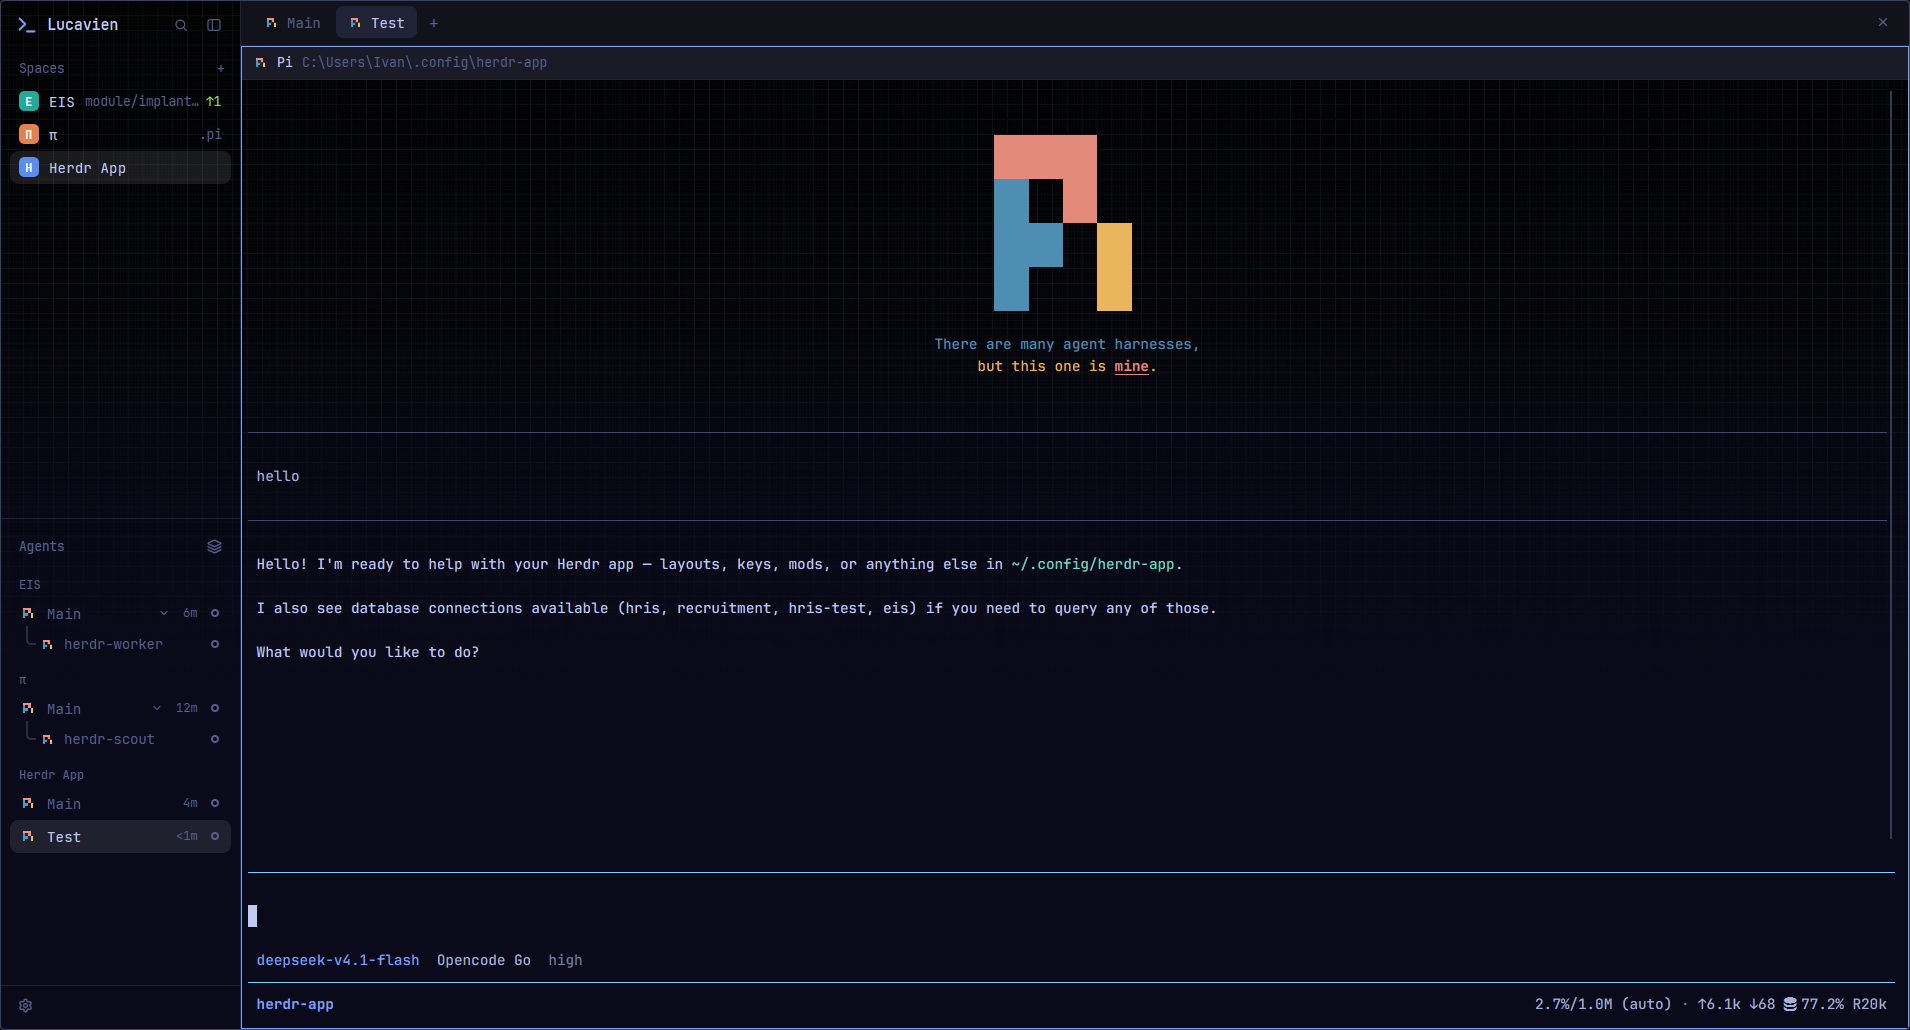
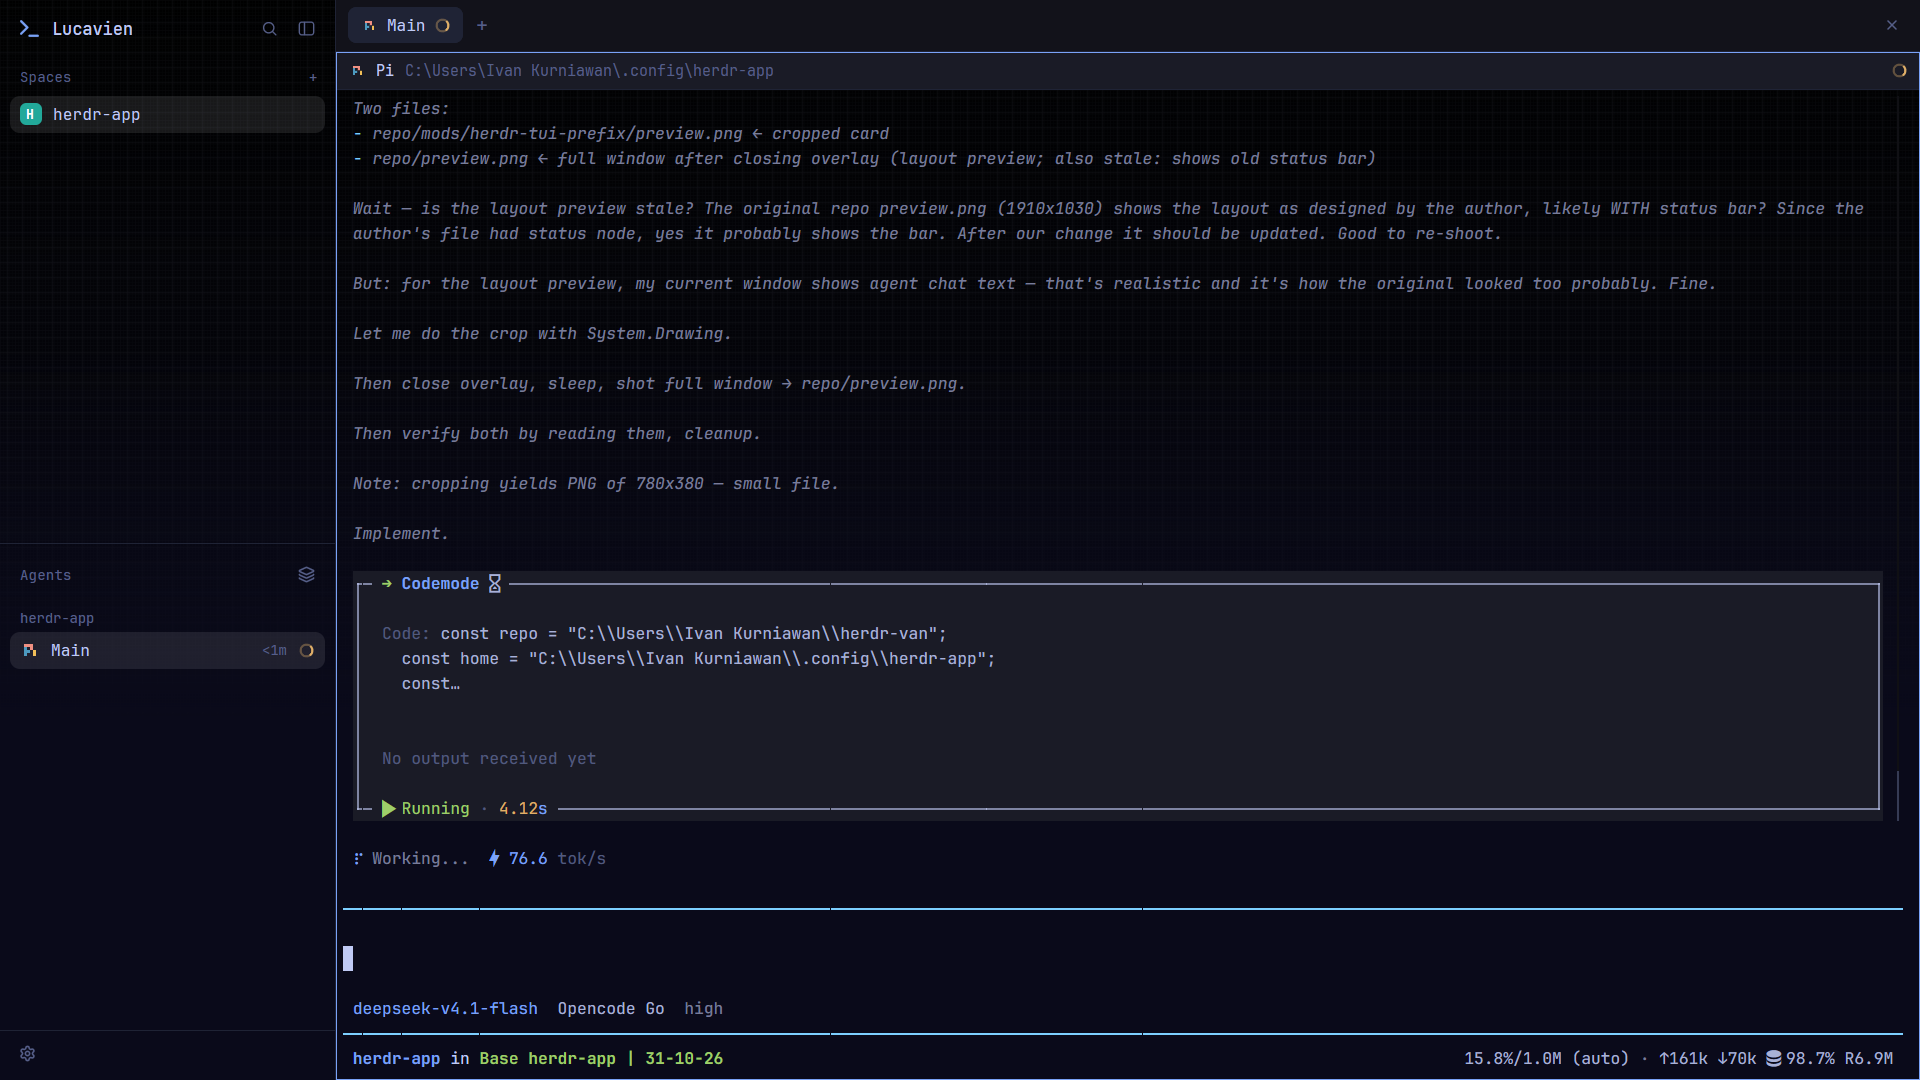
mod(herdr-tui-prefix): drop the picker duplicate and every shift+key row
w was a copy of g; shift+t/x/n/w/d/g/p/r/tab are easy to mistype after a
prefix and the app's own keys cover them. Three sections left (Panes, Tabs,
Session), no Spaces. Previews re-shot: the mod card, and the layout without
its old status bar.

diff --git a/mods/herdr-tui-prefix/main.js b/mods/herdr-tui-prefix/main.js
@@ -1,12 +1,13 @@
-// Herdr TUI prefix: herdr-tui's default prefix (Ctrl+B) and its default
-// bindings, for the Herdr app. Press Ctrl+B, release, press a key: the hint
-// waits for that one key and closes as soon as it has it, with no repeat
-// window holding the keyboard (herdr-tui has none either).
+// Herdr TUI prefix: herdr-tui's default prefix (Ctrl+B) over a trimmed subset
+// of its default bindings. Press Ctrl+B, release, press a key: the hint waits
+// for that one key and closes as soon as it has it, with no repeat window
+// holding the keyboard (herdr-tui has none either).
 //
-// The list mirrors `herdr --default-config`'s [keys] table
-// (herdr.dev/tui/docs/config-reference). A row with a null command is a
-// herdr-tui action the app has no command for: it stays listed, dimmed with
-// the reason, and pressing it says so instead of doing nothing.
+// Deliberately left out: every shift+key row (shift+t/x/n/w/d/g/p/r/tab). Shift
+// after a prefix is easy to mistype, and the app's own keys cover those actions.
+// A row with a null command is a herdr-tui action the app has no command for: it
+// stays listed, dimmed with the reason, and pressing it says so instead of doing
+// nothing.
 
 import { View, div } from "gpui-kit";
 import { v_flex, h_flex } from "gpui-base";
@@ -35,34 +36,19 @@ const SECTIONS = [
     ["r", "Resize mode", null, {}, "drag a split's border"],
     ["[", "Copy mode", null, {}, "mouse-select, then ^⇧C"],
     ["tab", "Cycle pane", null, {}, "use h j k l"],
-    ["shift+tab", "Cycle pane back", null, {}, "use h j k l"],
     ["e", "Edit scrollback", null, {}, "no scrollback editor"],
-    ["shift+p", "Rename pane", null, {}, "panes take their terminal's name"],
   ]],
   ["Tabs", [
     ["c", "New tab", "tab.new"],
     ["n", "Next tab", "tab.next"],
     ["p", "Previous tab", "tab.prev"],
     ...Array.from({ length: 9 }, (_, i) => [String(i + 1), `Tab ${i + 1}`, "tab.select", { index: i + 1 }]),
-    ["shift+t", "Rename tab", "tab.rename"],
-    ["shift+x", "Close tab", "tab.close"],
-  ]],
-  ["Spaces", [
-    ["shift+n", "New space", "space.new"],
-    ["shift+w", "Rename space", "space.rename"],
-    ["shift+d", "Close space", "space.close"],
-    ["shift+g", "New worktree", () => openOverlay({
-      mod: "worktree", kind: "dialog", width: 460, height: 280,
-      props: { space: focused()?.space, folder: focused()?.cwd, action: "new" },
-    })],
-    ["w", "Space picker", openPicker],
-    ["b", "Toggle sidebar", "layout.toggle", { id: "sidebar" }],
   ]],
   ["Session", [
     ["g", "Go to an agent or terminal", openPicker],
+    ["b", "Toggle sidebar", "layout.toggle", { id: "sidebar" }],
     ["s", "Settings", "app.settings"],
     ["q", "Minimize window", "window.minimize", {}, "no detach: panes keep running"],
-    ["shift+r", "Reload config", null, {}, "file edits apply live"],
     ["o", "Notification target", null, {}, "toasts go there when clicked"],
   ]],
 ];
@@ -76,7 +62,7 @@ const SHORT = [
   ["v · -", "Split right / down"],
   ["h j k l", "Focus pane"],
   ["z · x", "Zoom / close pane"],
-  ["w · b", "Space picker / sidebar"],
+  ["b", "Toggle sidebar"],
   ["q", "Minimize window"],
   ["?", "All bindings"],
 ];

diff --git a/mods/herdr-tui-prefix/RECIPE.md b/mods/herdr-tui-prefix/RECIPE.md
@@ -1,24 +1,43 @@
 # Herdr TUI prefix
 
-Ctrl+B, then a key: the Herdr TUI's own default prefix and default bindings, inside the Herdr app. A hint stays open while you decide. This is a piece you add to your current layout, not a window or a terminal multiplexer.
+Ctrl+B, then a key: the Herdr TUI's default prefix, inside the Herdr app, over
+the bindings worth typing. A hint stays open while you decide. This is a piece
+you add to your current layout, not a window or a terminal multiplexer.
 
 ![Herdr TUI prefix](preview.png)
 
-This file is the brief: enough to build Herdr TUI prefix from an empty folder. The files next to it are one build of it. If they don't work on your Herdr, or you want it different, build it again from here.
+This file is the brief: enough to build Herdr TUI prefix from an empty folder.
+The files next to it are one build of it. If they don't work on your Herdr, or
+you want it different, build it again from here.
 
 ## What you see
 
-Two states of one popup near the top of the window, 520px wide and offset 64px from the top. Nothing is added to the layout.
+Two states of one popup near the top of the window, 520px wide and offset 64px
+from the top. Nothing is added to the layout.
 
-The card Ctrl+B opens first: a heading, "Ctrl+B · waiting for a key", with "Esc cancel · ^B send prefix" on the right, then nine 20px rows — key on the left in a 66px column in the theme's accent, action on the right in the foreground. The keys worth knowing by heart: new tab, next/previous tab, select tab, split right/down, focus pane, zoom/close pane, space picker/sidebar, minimize window, all bindings. A footer reads "? all bindings". The popup is only as tall as that card (about 265px).
+The card Ctrl+B opens first: a heading, "Ctrl+B · waiting for a key", with
+"Esc cancel · ^B send prefix" on the right, then nine 20px rows — key on the
+left in a 66px column in the theme's accent, action on the right in the
+foreground. The keys worth knowing by heart: new tab, next/previous tab, select
+tab, split right/down, focus pane, zoom/close pane, toggle sidebar, minimize
+window, all bindings. A footer reads "? all bindings". The popup is only as tall
+as that card (about 265px).
 
-The full list after `?`: the heading becomes "Ctrl+B · all bindings" with "? short list · Esc cancel" on the right, and the card gives way to a 440px scrolling list in four captioned sections — PANES, TABS, SPACES, SESSION — captions 10px semibold in the dim color. Rows are the same 20px shape, with a short reason on the right where one is needed. Rows with no Herdr-app command stay in their herdr-tui place, dimmed: `r` resize mode, `[` copy mode, `tab` / `shift+tab` cycle pane, `e` edit scrollback, `shift+p` rename pane, `shift+r` reload config, `o` notification target. A footer reads "herdr-tui defaults, herdr --default-config".
+The full list after `?`: the heading becomes "Ctrl+B · all bindings" with
+"? short list · Esc cancel" on the right, and the card gives way to a 440px
+scrolling list in three captioned sections — PANES, TABS, SESSION — captions
+10px semibold in the dim color. Rows are the same 20px shape, with a short
+reason on the right where one is needed. Rows with no Herdr-app command stay in
+their herdr-tui place, dimmed: `r` resize mode, `[` copy mode, `tab` cycle pane,
+`e` edit scrollback, `o` notification target. A footer reads "herdr-tui
+defaults, herdr --default-config".
 
-Both states use the popup background, 12px text, 14px padding and 8px gaps, and the popup shrinks to whichever state is showing.
+Both states use the popup background, 12px text, 14px padding and 8px gaps, and
+the popup shrinks to whichever state is showing.
 
 ## How it behaves
 
-Ctrl+B opens the card and waits without a timeout. The next key acts (herdr-tui's `herdr --default-config` defaults):
+Ctrl+B opens the card and waits without a timeout. The next key acts:
 
 | Key | Action |
 | --- | --- |
@@ -30,26 +49,38 @@ Ctrl+B opens the card and waits without a timeout. The next key acts (herdr-tui'
 | `c` | New tab |
 | `n` / `p` | Next / previous tab |
 | `1`–`9` | Select tab 1–9 |
-| `shift+t` / `shift+x` | Rename / close the active tab (Herdr asks the name itself) |
-| `shift+n` / `shift+w` / `shift+d` | New / rename / close space (Herdr asks) |
-| `shift+g` | New worktree (the shipped `worktree` dialog) |
-| `w` | Space picker (the shipped `picker` popup) |
 | `b` | Toggle the sidebar |
-| `g` | Go to an agent or terminal (the same `picker`) |
+| `g` | Go to an agent or terminal (the shipped `picker`) |
 | `s` | Settings |
 | `?` | Swap the card for the full list, and back; nothing else runs and the popup stays open |
 | `q` | Minimize the window; there is no detach, panes keep running |
 | Escape | Cancel |
 | Ctrl+B | Send a literal Ctrl+B to the focused terminal |
 
-A dimmed row runs nothing: it closes the hint and posts a warning toast that names the action and says what to do instead (for example "Resize mode: drag a split's border.").
+**No shift+key rows.** Every `shift+` binding was left out on purpose: shift
+right after a prefix is easy to mistype, and the app already has keys for those
+actions — `f2` renames a tab, `ctrl-shift-w` closes it, `ctrl-shift-n` makes a
+space, `shift-f2` renames a space, and the space menu and `+` menu cover new
+space and new worktree. (`H J K L` are written as capitals and still need shift
+physically; they are the only ones left that do.)
 
-One key, then the hint closes: a bound key runs its action, an unbound one only dismisses, and Escape cancels. `?` is the exception — it toggles the full list and keeps the popup open. There is no repeat window, so a key you type right after the action reaches the terminal immediately. Typing outside the hint is untouched.
+A dimmed row runs nothing: it closes the hint and posts a warning toast that
+names the action and says what to do instead (for example "Resize mode: drag a
+split's border.").
+
+One key, then the hint closes: a bound key runs its action, an unbound one only
+dismisses, and Escape cancels. `?` is the exception — it toggles the full list
+and keeps the popup open. There is no repeat window, so a key you type right
+after the action reaches the terminal immediately. Typing outside the hint is
+untouched.
 
 ## Built from
 
-- **One mod**, `mods/herdr-tui-prefix/`, `main.js` and `mod.json`. The manifest is `{"place": "none", "title": "Herdr TUI prefix", "overlay": {"kind": "popup", "at": "top", "offset": 64, "width": 520, "height": 560}}`, so no `layouts/` folder and no layout edit.
-- **A `keys.json` snippet**, merged into the person's keys rather than replacing them:
+- **One mod**, `mods/herdr-tui-prefix/`, `main.js` and `mod.json`. The manifest is
+  `{"place": "none", "title": "Herdr TUI prefix", "overlay": {"kind": "popup", "at": "top", "offset": 64, "width": 520, "height": 560}}`,
+  so no `layouts/` folder and no layout edit.
+- **A `keys.json` snippet**, merged into the person's keys rather than replacing
+  them:
 
   ```json
   {
@@ -59,33 +90,72 @@ One key, then the hint closes: a bound key runs its action, an unbound one only 
   }
   ```
 
-  The terminal section is what makes Ctrl+B work while a terminal has focus; the mod section wins while the popup is open, delivering `herdr-tui-prefix.send-prefix` through `nextCommand()`.
-- **Data:** `SECTIONS`, a list of `[caption, rows]` where each row is `[key, label, command, args, note]`. `command` is a command name, a function (for the two picker popups and the worktree dialog), or `null` (no equivalent, `note` is the reason). `SHORT` is the card's nine `[keys, label]` pairs. An `INDEX` map built from `SECTIONS` once at load is what a pressed key is looked up in, so both states share one table and one renderer row.
-- **A focusable view** on `gpui-kit` + `gpui-base`: `cx.focus_handle()` focused in `init`, `.track_focus(handle)`, `.on_key_down`, colors from `theme()`. It closes with `closeOverlay(props().overlay)`.
-- **Commands:** `pane.split`, `pane.go`, `pane.swap`, `pane.zoom`, `pane.close`, `tab.new`, `tab.next`, `tab.prev`, `tab.select`, `tab.rename`, `tab.close`, `space.new`, `space.rename`, `space.close`, `layout.toggle`, `window.minimize`, `app.settings`.
-- **Overlays:** `openOverlay({mod: "picker", kind: "popup", at: "top", offset: 40, width: 640, height: 0.8})` and `openOverlay({mod: "worktree", kind: "dialog", width: 460, height: 280, props: {space, folder, action: "new"}})` with `focused().space` / `focused().cwd`.
-- **Literal keys:** `focused()?.terminal` plus `hc(["keys", terminal, "ctrl+b"])`, which reaches terminals on other machines too. This mod runs `hc` — that is the only program it starts.
-- **Key matching:** the produced character (`e.key_char`) for `v - [ H J K L T X N W D G`, `e.key` with shift for `tab` / `shift+tab`, digits as typed. Modifiers other than shift never match a prefix binding. `?` toggles the two states before the table is consulted.
+  The terminal section is what makes Ctrl+B work while a terminal has focus; the
+  mod section wins while the popup is open, delivering
+  `herdr-tui-prefix.send-prefix` through `nextCommand()`.
+- **Data:** `SECTIONS`, a list of `[caption, rows]` where each row is
+  `[key, label, command, args, note]`. `command` is a command name, a function
+  (for the picker popup), or `null` (no equivalent, `note` is the reason).
+  `SHORT` is the card's nine `[keys, label]` pairs. An `INDEX` map built from
+  `SECTIONS` once at load is what a pressed key is looked up in, so both states
+  share one table and one renderer row.
+- **A focusable view** on `gpui-kit` + `gpui-base`: `cx.focus_handle()` focused in
+  `init`, `.track_focus(handle)`, `.on_key_down`, colors from `theme()`. It closes
+  with `closeOverlay(props().overlay)`.
+- **Commands:** `pane.split`, `pane.go`, `pane.swap`, `pane.zoom`, `pane.close`,
+  `tab.new`, `tab.next`, `tab.prev`, `tab.select`, `layout.toggle`,
+  `window.minimize`, `app.settings`.
+- **Overlays:** `openOverlay({mod: "picker", kind: "popup", at: "top", offset: 40, width: 640, height: 0.8})`
+  for `g`.
+- **Literal keys:** `focused()?.terminal` plus `hc(["keys", terminal, "ctrl+b"])`,
+  which reaches terminals on other machines too. This mod runs `hc` — that is the
+  only program it starts.
+- **Key matching:** the produced character (`e.key_char`) for `v - [ H J K L`,
+  `e.key` for `tab`, digits as typed. Modifiers other than shift never match a
+  prefix binding; shift is only read for `tab`. `?` toggles the two states
+  before the table is consulted.
 
 ## Watch out
 
-- Ctrl+B is taken from terminal programs, including tmux, as it is in herdr-tui. Ctrl+B Ctrl+B reaches them.
-- The full list scrolls with the mouse or its scrollbar; there are no keys for scrolling it, because `j`/`k` are herdr-tui's own pane bindings.
-- `?` is the mod's own toggle, so Herdr's key list (`app.help`) is not on the prefix: bind it in `keys.json` if you want it there.
+- Ctrl+B is taken from terminal programs, including tmux, as it is in herdr-tui.
+  Ctrl+B Ctrl+B reaches them.
+- The full list scrolls with the mouse or its scrollbar; there are no keys for
+  scrolling it, because `j`/`k` are the pane bindings.
+- `?` is the mod's own toggle, so Herdr's key list (`app.help`) is not on the
+  prefix: bind it in `keys.json` if you want it there.
 - `q` is not detach: it minimizes the window. Panes keep running either way.
-- `r`, `[`, `tab`, `shift+tab`, `e`, `shift+p`, `shift+r` and `o` have no Herdr-app command (there is no pane resize, copy mode, pane cycling, pane rename, scrollback editor, config reload or notification-target command). They are listed for muscle memory and explain themselves instead of acting.
-- `w` and `g` both open the shipped `picker`: the app's picker covers tab, space and agent navigation, so the TUI's separate workspace and session pickers collapse into one.
-- Rename and close space/tab open Herdr's own dialogs without a name, which is how the app asks.
-- The full list has a fixed 440px body and the card grows to its nine rows; the popup follows whichever state is showing. Special characters count as one key. Follow the installed `herdr.d.ts` and `gpui-kit.d.ts`, never modify shipped mods.
+- `r`, `[`, `tab`, `e` and `o` have no Herdr-app command (there is no pane
+  resize, copy mode, pane cycling, scrollback editor or notification-target
+  command). They are listed for muscle memory and explain themselves instead of
+  acting.
+- `g` opens the shipped `picker`, which covers tab, space and agent navigation.
+- Nothing on the prefix renames or closes a space or tab any more: Herdr's own
+  dialogs and keys do (`f2`, `ctrl-shift-w`, the space menu).
+- The full list has a fixed 440px body and the card grows to its nine rows; the
+  popup follows whichever state is showing. Special characters count as one key.
+  Follow the installed `herdr.d.ts` and `gpui-kit.d.ts`, never modify shipped
+  mods.
+- `preview.png` predates the trim: it still shows the old card with a
+  "Space picker / sidebar" row. Re-shoot it if the picture matters.
 
 ## Done when
 
-- `herdr-app check mods/herdr-tui-prefix` passes with the matching Herdr binary and home.
-- Ctrl+B opens the hint with a terminal focused, and a long pause does not close it.
-- `v`, `-`, `x`, `z`, `c`, `1`–`9`, `b`, `s` and `q` do what their labels say.
-- `?` swaps the card for the full list and back with the popup still open and the keyboard still on it; `v` after that still splits right.
-- The card lists nine rows; the full list shows all four sections with the dimmed rows and their reasons.
-- The hint closes as soon as a key lands, and `h` immediately followed by Ctrl+C sends the interrupt to the shell (no repeat window holding the keyboard).
-- `q` minimizes the window and the panes keep running; Ctrl+B Ctrl+B types a literal prefix into the shell.
-- A dimmed row (`r`, `[`, `e`) closes the hint and posts a toast naming the action.
-- Esc cancels without typing into the terminal, and typing outside the hint is unchanged.
+- `herdr-app check mods/herdr-tui-prefix` passes with the matching Herdr binary
+  and home.
+- Ctrl+B opens the hint with a terminal focused, and a long pause does not close
+  it.
+- `v`, `-`, `x`, `z`, `c`, `1`–`9`, `b`, `s`, `g` and `q` do what their labels
+  say.
+- `?` swaps the card for the full list (PANES, TABS, SESSION) and back with the
+  popup still open and the keyboard still on it; `v` after that still splits
+  right.
+- The card lists nine rows; the full list shows the dimmed rows with their
+  reasons.
+- The hint closes as soon as a key lands, and `h` immediately followed by Ctrl+C
+  sends the interrupt to the shell (no repeat window holding the keyboard).
+- `q` minimizes the window and the panes keep running; Ctrl+B Ctrl+B types a
+  literal prefix into the shell.
+- A dimmed row (`r`, `[`, `e`) closes the hint and posts a toast naming the
+  action.
+- Esc cancels without typing into the terminal, and typing outside the hint is
+  unchanged.

diff --git a/RECIPE.md b/RECIPE.md
@@ -50,7 +50,7 @@ works.
   avatar color is stored per space; git branch, ahead and behind appear after
   the name when they're unusual.
 - **Ctrl+B** opens the herdr-tui prefix card (nine rows). `?` swaps it for the
-  full table of herdr-tui's defaults and back without closing.
+  full table of the bindings it keeps and back without closing.
 - The layout hides nothing you need: zoom, splits, the picker, the tab and space
   menus are all the shipped ones.
 
@@ -116,16 +116,15 @@ layer, so three WezTerm layers were flattened into one here.
 - `herdr-tui-prefix` — not part of the layout's look and needs no block, only
   keys, so it works in any layout. `mod.json` is `place: "none"` with a top
   popup (520 wide, offset 64). Ctrl+B opens a nine-row card (`SHORT`); `?` swaps
-  it for the full table (`SECTIONS`, `INDEX`) of herdr-tui's
-  `herdr --default-config` `[keys]` defaults and back. Rows with no Herdr-app
-  command stay listed and dimmed with a reason (`r` resize, `[` copy mode,
-  `tab`/`shift+tab` cycling, `e` scrollback, `shift+p` rename pane, `shift+r`
-  reload, `o` notification target); pressing one posts a warning toast instead
-  of doing nothing. Everything else dispatches `pane.*`, `tab.*`, `space.*`,
-  `layout.toggle`, `window.minimize`, `app.settings`, or the shipped
-  `picker`/`worktree` overlays. `q` minimizes where herdr-tui would detach, and
-  `w`/`g` both open `picker`. A literal Ctrl+B goes out through
-  `hc(["keys", terminal, "ctrl+b"])`.
+  it for the full table (`SECTIONS`, `INDEX`) of the bindings it keeps and back.
+  Shift+key rows are deliberately absent — the app's own keys cover those, and
+  shift after a prefix is easy to mistype. Rows with no Herdr-app command stay
+  listed and dimmed with a reason (`r` resize, `[` copy mode, `tab` cycling, `e`
+  scrollback, `o` notification target); pressing one posts a warning toast
+  instead of doing nothing. Everything else dispatches `pane.*`, `tab.*`,
+  `layout.toggle`, `window.minimize`, `app.settings`, or the shipped `picker`
+  overlay, and `q` minimizes where herdr-tui would detach. A literal Ctrl+B goes
+  out through `hc(["keys", terminal, "ctrl+b"])`.
 
 **Pi logo** `custom-icons/pi.svg` is the official `pi.dev/logo-auto.svg`, wired
 by `programs.json` (`pi` → `custom-icons/pi.svg`, `tint: false` so it keeps its

diff --git a/README.md b/README.md
@@ -20,7 +20,7 @@ sit straight on that backdrop — no boxes, no bottom bar, no clutter.
 - **The Pi logo.** Pi agents wear their real three-color logo instead of the
   plain glyph.
 - **Ctrl+B, like the TUI.** A small mod brings the [Herdr TUI](https://herdr.dev/tui)'s
-  prefix into the app: Ctrl+B, then a key. `?` shows every binding.
+  prefix into the app: Ctrl+B, then a key. `?` lists everything it keeps.
 
 ## Add it
 
